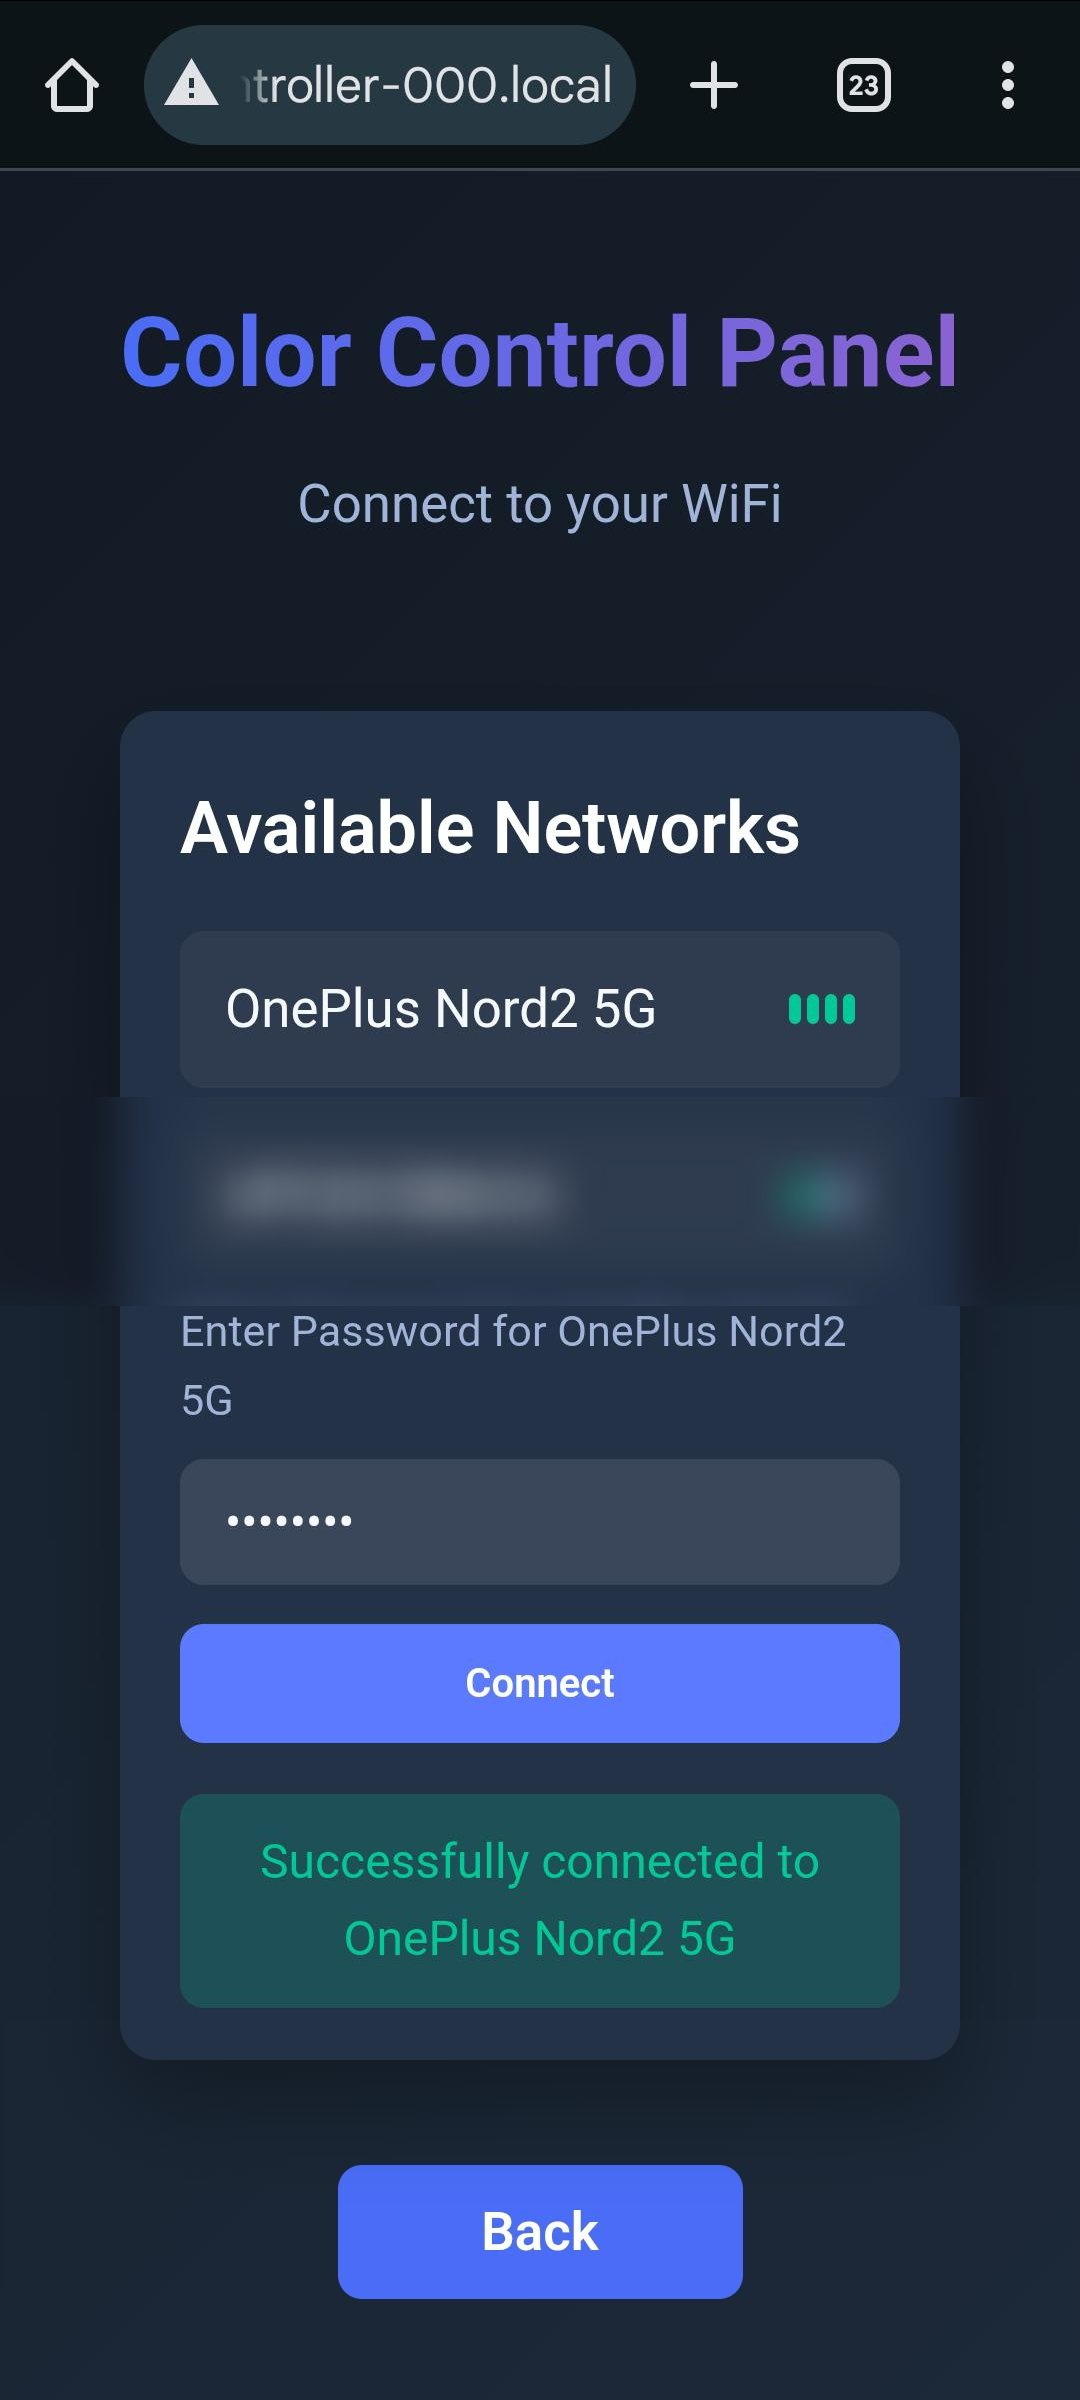
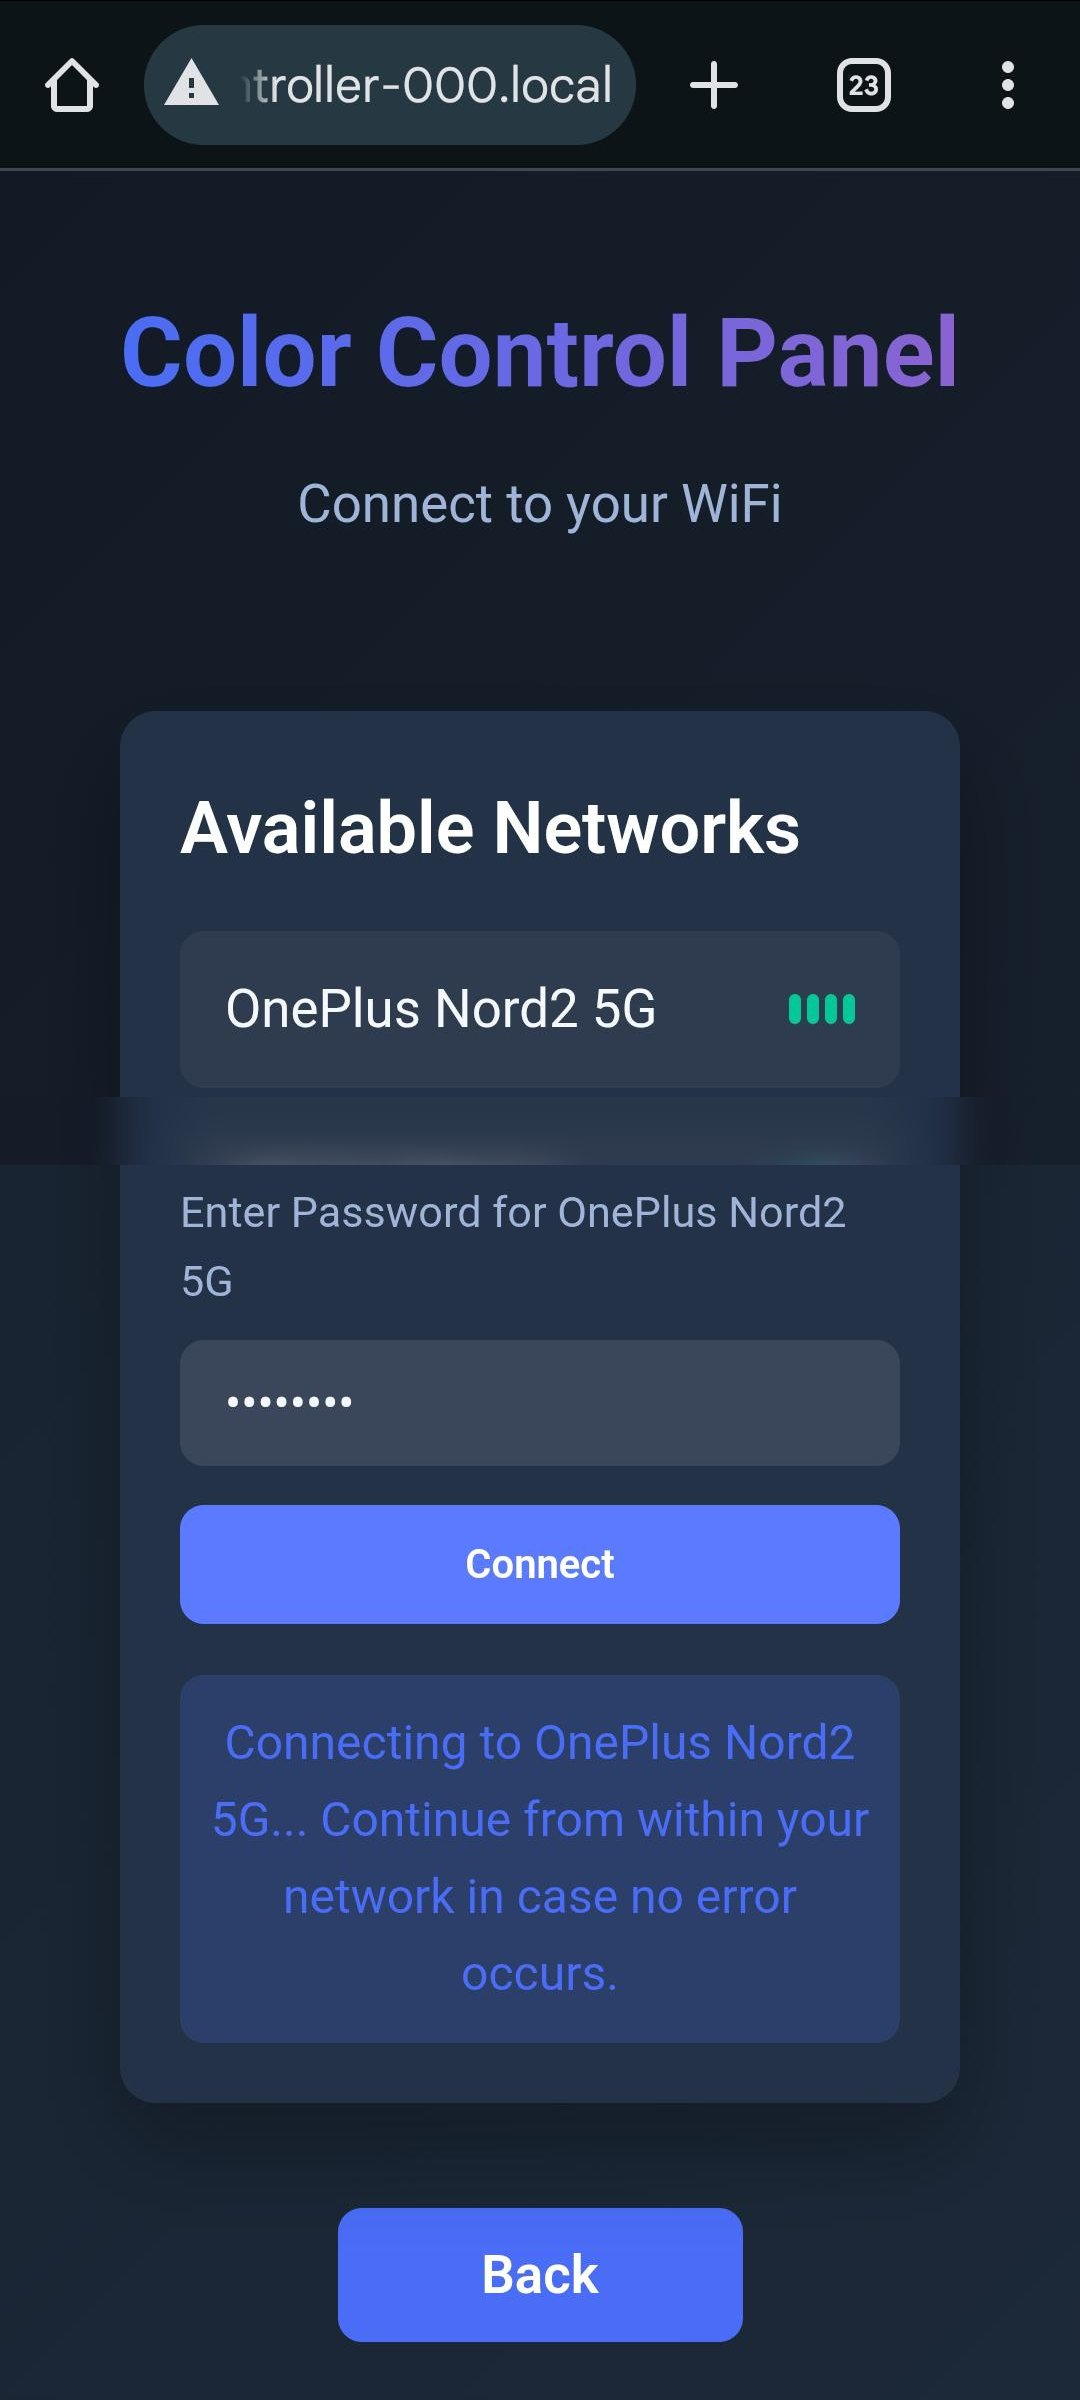
docs: Add information about ESP32-C3 to README

Changed region(s): [[0.0917, 0.625, 0.8861, 1.0], [0.1528, 0.4688, 0.7944, 0.5938]]

diff --git a/frontend/wifi_connection.html b/frontend/wifi_connection.html
@@ -414,7 +414,7 @@
                     requestData.password = password;
                 }
 
-                showStatus('Connecting to ' + ssid + '... Continue from within your network in case the connection is not failing.', 'connecting');
+                showStatus('Connecting to ' + ssid + '... Continue from within your network in case no error occurs.', 'connecting');
 
                 fetch('/connect_to_wifi', {
                     method: 'POST',

diff --git a/led-controller/src/frontend/wifi_connection.rs b/led-controller/src/frontend/wifi_connection.rs
@@ -267,7 +267,7 @@ const HTML_2: &str = r##"
                     requestData.password = password;
                 }
 
-                showStatus('Connecting to ' + ssid + '... Continue from within your network in case the connection is not failing.', 'connecting');
+                showStatus('Connecting to ' + ssid + '... Continue from within your network in case no error occurs.', 'connecting');
 
                 fetch('/connect_to_wifi', {
                     method: 'POST',

diff --git a/README.md b/README.md
@@ -4,11 +4,11 @@ Fully functional IoT LED Controller. Allows you to control the colors of an LED 
 
 ## Required hardware
 
-This project is based on the ESP-S3 MCU. The following components were used:
+This project is based on the ESP32-S3 MCU. The following components were used:
 - Seeed Studio XIAO ESP32-S3
 - WS2812 Neo Pixel Led Light Strip
 
-The code should work with similar hardware as well, requiering more or less adaptation.
+The code was tested on the ESP32-C3 as well. Besides changing some configuration files, the ESP32-C3 required no adaptation of the source code.
 
 <figure id="fig1-schematics">
   <img src="docs/images/schematics.jpg" alt="Circuit schematic" width="500">
@@ -18,13 +18,20 @@ The code should work with similar hardware as well, requiering more or less adap
 
 ## How to flash
 
-1) This project heavily uses the ESP-IDF framework. You can find useful information about it [here](https://docs.esp-rs.org/std-training/01_intro.html).
-2) Execute the following commands in the project's root directory for building the project and flashing it on the connected ESP32-S3. Hint: If flashing doesn't work, you may have to modify the permissions of the device descriptor.
+1) This project heavily uses the ESP-IDF framework. You can find useful information about it [here](https://docs.esp-rs.org/std-training/01_intro.html) and [here](https://github.com/esp-rs/esp-idf-template).
+2) Execute the following commands in the project's root directory for building the project and flashing it on the connected ESP32-S3 or ESP32-C3. Hint: If flashing doesn't work, you may have to modify the permissions of the device descriptor.
 
 ``` Bash
 cd led-controller
-cargo build --release
-espflash flash target/xtensa-esp32s3-espidf/debug/led-controller --monitor
+cargo build
+```
+
+``` Bash
+espflash flash target/xtensa-esp32s3-espidf/debug/led-controller --monitor  # ESP32-S3 
+```
+
+``` Bash
+espflash flash target/riscv32imc-esp-espidf/debug/led-controller-c3  --monitor  # ESP32-C3
 ```
 
 
@@ -32,21 +39,21 @@ espflash flash target/xtensa-esp32s3-espidf/debug/led-controller --monitor
 
 Once the ESP32 is flashed, you can use it as follows:
 
-1) When powered on, the ESP will open a WiFi access point with an SSID like *LED Controller 000* (configurable). Make sure to not forget to connect the antenna to your ESP device.
+1) When powered on, the ESP creates a WiFi access point with an SSID like *LED Controller 000* (configurable). Make sure to connect the antenna to your ESP device.
 
 <figure id="fig1-schematics">
   <img src="docs/images/ESP-AP.png" alt="LED Controller AP" width="400">
   <figcaption>Figure 2: LED Controller Access Point</figcaption>
 </figure>
 
-2) When connected to the network provided by the ESP, enter *led-controller-000.local* (configurable) in your browser. This will lead you to a welcome page where you can either connect the ESP to your local WiFi or control the colors directly.
+2) When connected to the ESP's network, enter *led-controller-000.local* (configurable) in your browser. This will open a welcome page where you can either connect the ESP to your local WiFi or control the colors directly.
 
 <figure id="fig1-schematics">
   <img src="docs/images/welcome_page.jpeg" alt="Welcome Page" width="200">
   <figcaption>Figure 3: Welcome Page, shown when entering led-controller-000.local in your browser.</figcaption>
 </figure>
 
-3) When clicking on *Connect to WiFi*, the ESP will take a moment to scan the available WiFi networks and list them. To connect, choose a WiFi from the list. If successful, you can access the ESP from within your WiFi network now. This closes the ESP AP. In case you want to open the ESP AP again, reboot the device by simply replugging the power cable. In case your WiFi is temporarely down after connecting the ESP to it, the ESP automatically reestablishes connection once your WiFi is back up.
+3) When you click "Connect to WiFi", the ESP will scan for available networks and display them. Select your WiFi network from the list to connect. Once successfully connected, you can access the ESP from within your WiFi network. Note that this will disable the ESP's access point mode. If you need to re-enable the access point, simply reboot the device by unplugging and replugging the power cable or pressing the reset button in case of ESP32-C3. If your WiFi network temporarily goes down after setup, the ESP will automatically reconnect once your WiFi is available again.
 
 <figure id="fig1-schematics">
   <img src="docs/images/connect_to_wifi.jpg" alt="Connect to WiFi" width="200">
